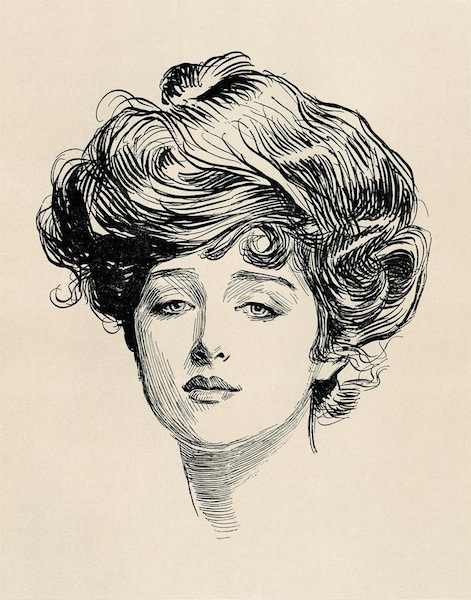
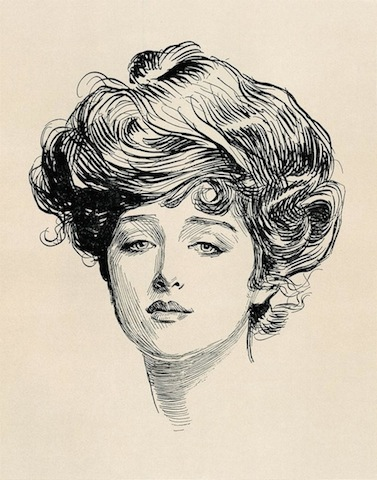
resized ahs175_final images and corrected index

diff --git a/ahs175_final/index.html b/ahs175_final/index.html
@@ -140,7 +140,7 @@
 			<font class="description">Daniel Chester French, Music and Poetry (Doors for the Boston Public Library), 1904</font>
 		</p>
 		<p>
-			<img src="img/GDanielChesterFrench-TruthAndRomance-DoorsForTheBostonPublicLibrary-1904.jpg">
+			<img src="img/DanielChesterFrench-TruthAndRomance-DoorsForTheBostonPublicLibrary-1904.jpg">
 			<br>
 			<font class="description">Daniel Chester French, Truth and Romance (Doors for the Boston Public Library), 1904</font>
 		</p>
